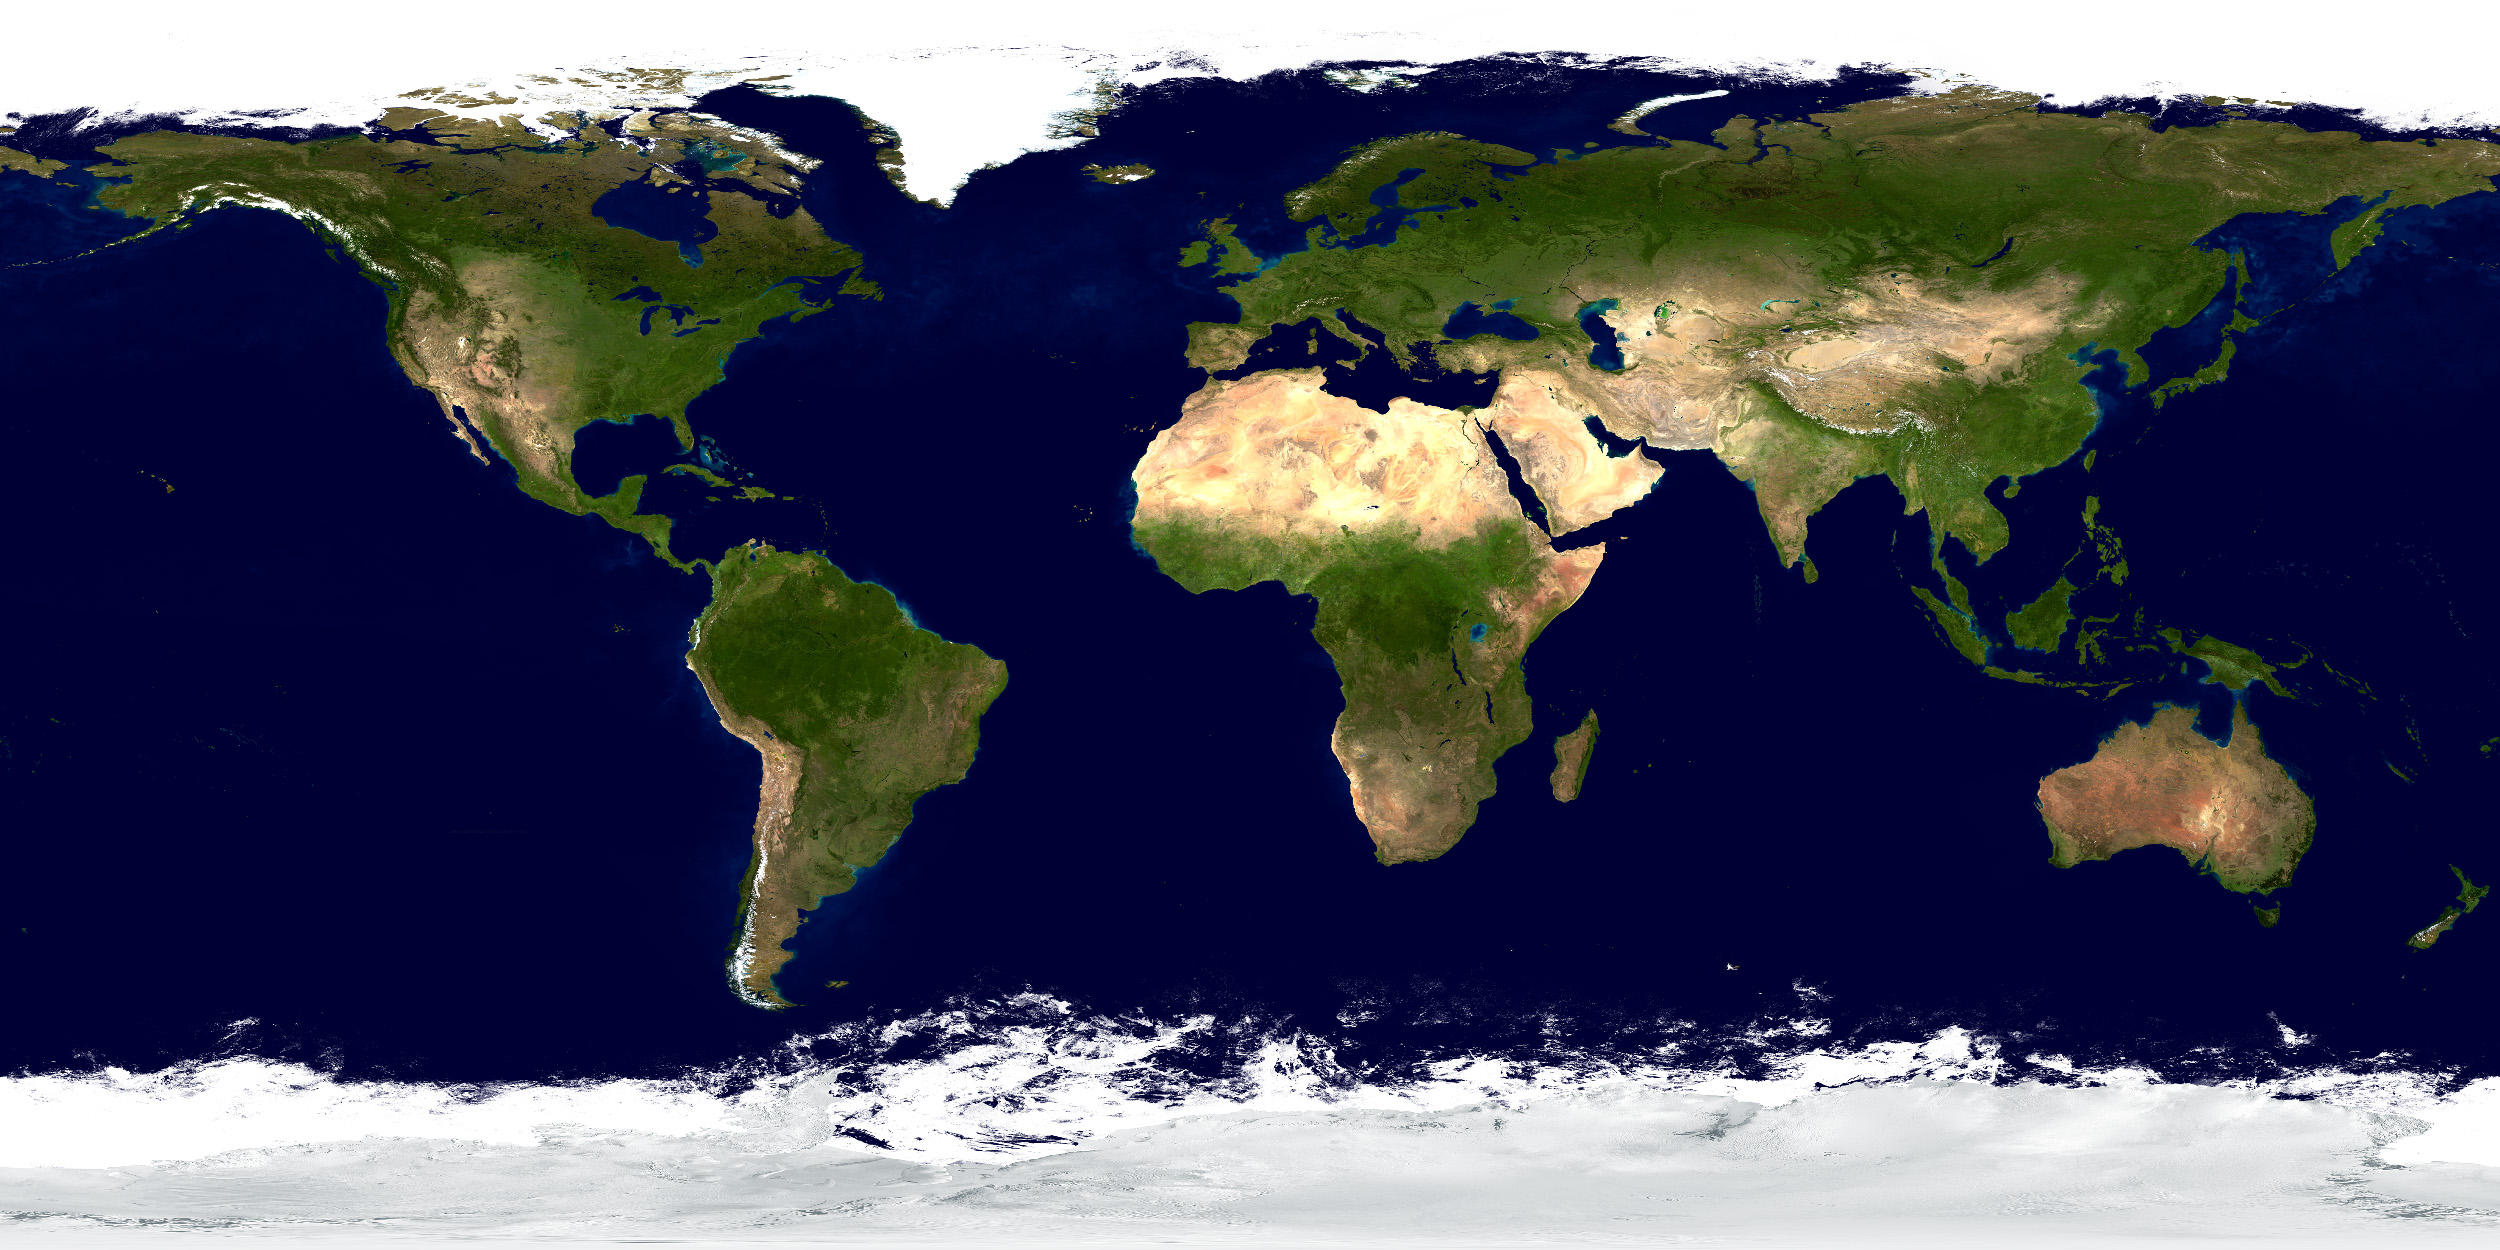
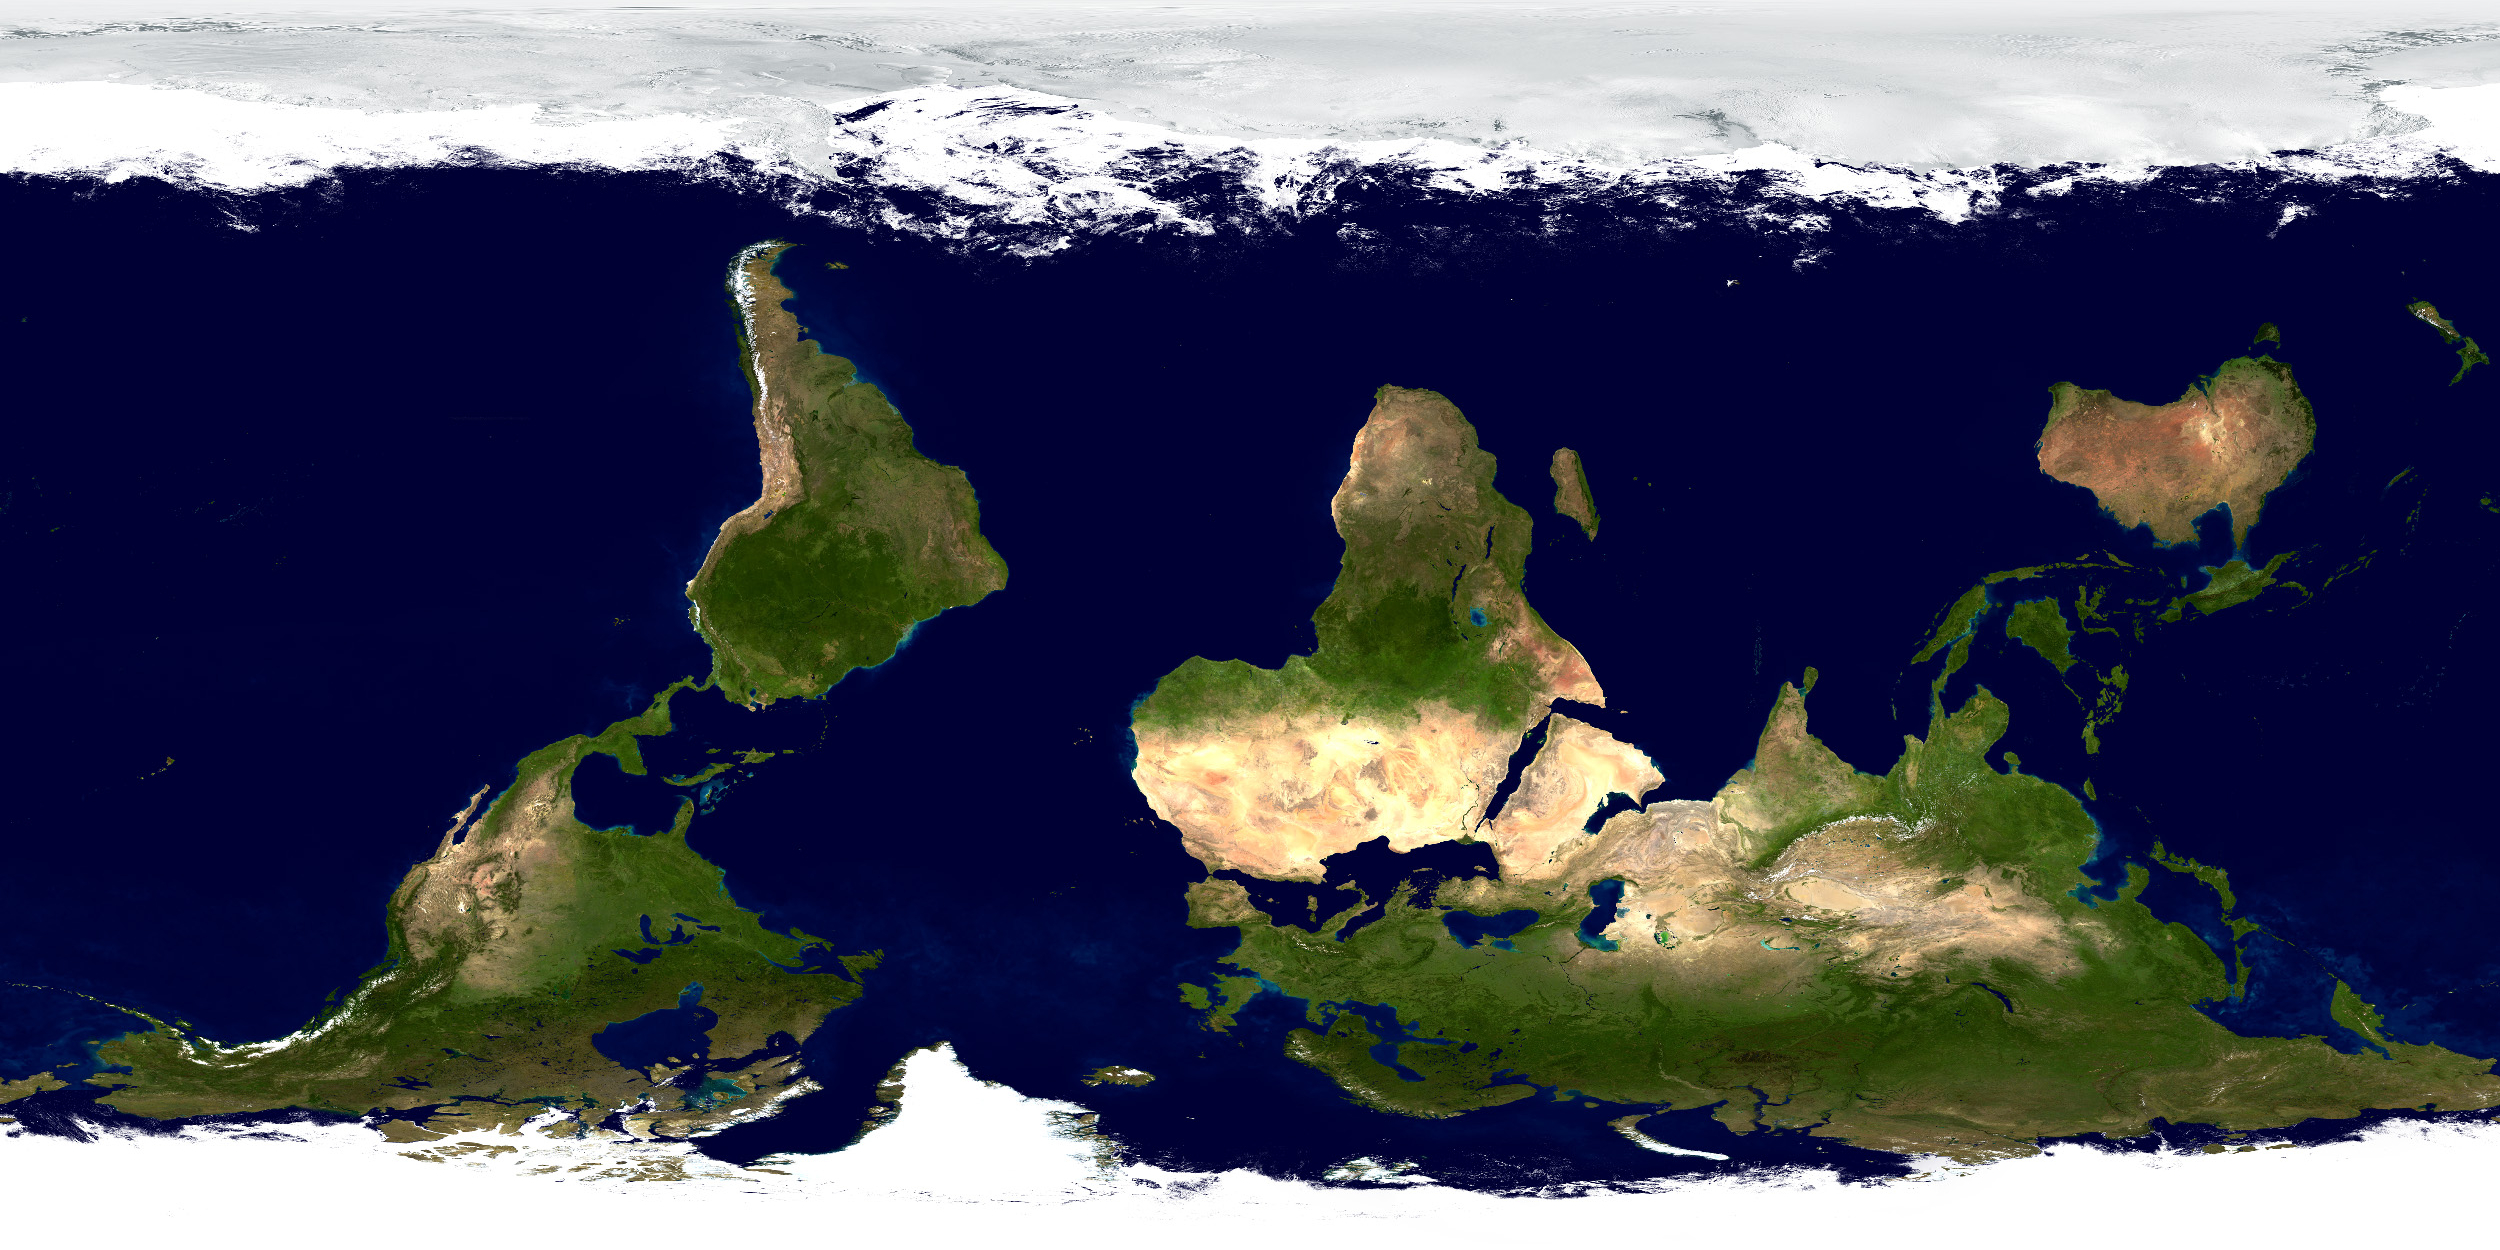
demonstration stuff

diff --git a/src/GLEngine.cpp b/src/GLEngine.cpp
@@ -1,10 +1,12 @@
 #include "GLEngine.h"
 #include "Util.h"
+#include "Texture.h"
+
 #include <stdio.h>
 #include <stdlib.h>
 #include <math.h>
 
-#define NUM_COLORS 3
+#define NUM_COLORS 5
 
 GLEngine::GLEngine(int argc, char** argv)
 {
@@ -14,8 +16,8 @@ GLEngine::GLEngine(int argc, char** argv)
 
 void GLEngine::initGL(int argc, char** argv)
 {
-    m_window = new sf::Window(sf::VideoMode::GetDesktopMode(), "GLEngine", sf::Style::Fullscreen);
-    //m_window = new sf::Window(sf::VideoMode(1300, 700), "GLEngine", sf::Style::Resize | sf::Style::Close); 
+    //m_window = new sf::Window(sf::VideoMode::GetDesktopMode(), "GLEngine", sf::Style::Fullscreen);
+    m_window = new sf::Window(sf::VideoMode(1300, 700), "GLEngine", sf::Style::Resize | sf::Style::Close); 
     m_screenWidth = m_window->GetWidth();
     m_screenHeight = m_window->GetHeight();
 	m_clock = new sf::Clock();
@@ -30,12 +32,13 @@ void GLEngine::initGL(int argc, char** argv)
     glEnable(GL_LIGHT0);
     
     m_fullScreen = false;
-	m_sphere = false;
-	m_godRays = false;
+	m_sphere = true;
+	m_godRays = true;
 	m_shaderIndex = 0;
-	m_wrapTex = false;
+	m_wrapTex = true;
 	m_planet = false;
-	m_equiWarp = false;
+	m_equiWarp = true;
+	m_warpingEarth = false;
 	m_updateRate = 1.0/60.0;
 	m_scale = 1.0;
 
@@ -45,15 +48,20 @@ void GLEngine::initGL(int argc, char** argv)
 	m_texWrappingShader = new Shader("shaders/wrap_texture.vert", "shaders/wrap_texture.frag");
 	m_equiWarpingShader = new Shader("shaders/equirectangular_warping.vert", "shaders/equirectangular_warping.frag");
 	
+	m_colorShaders.push_back(new Shader("shaders/warping.vert", "shaders/warping_chaotic_red.frag"));
 	m_colorShaders.push_back(new Shader("shaders/warping.vert", "shaders/warping_nebulous.frag"));
 	m_colorShaders.push_back(new Shader("shaders/warping.vert", "shaders/warping_2pass_gold.frag"));
-	m_colorShaders.push_back(new Shader("shaders/warping.vert", "shaders/warping_chaotic_red.frag"));
+	m_earthTexShader = new Shader("shaders/tex_warping.vert", "shaders/warping_image.frag");
+	m_colorShaders.push_back(m_earthTexShader);
+	m_colorShaders.push_back(new Shader("shaders/warping.vert", "shaders/simple_fbm.frag"));
 	m_currentColorShader = m_colorShaders[0];
 	
 	m_texFrameBuffer = new FrameBuffer(m_screenWidth, m_screenHeight);
 	m_gRayFrameBuffer = new FrameBuffer(m_screenWidth, m_screenHeight);
 	m_texWrappingFrameBuffer = new FrameBuffer(m_screenWidth, m_screenHeight);
 	m_equiWarpingFrameBuffer = new FrameBuffer(m_screenWidth, m_screenHeight);
+	
+	m_earthTex = Texture::loadTexture("resources/earth.jpg");
 	
 	m_mouseRotX = 0;
 	m_mouseRotY = 0;
@@ -119,6 +127,14 @@ int GLEngine::begin()
                         }
                         m_currentColorShader = m_colorShaders[m_shaderIndex];
                         break;
+                    case sf::Key::X:
+                        m_shaderIndex -= 1;
+                        if(m_shaderIndex < 0)
+                        {
+                            m_shaderIndex = NUM_COLORS-1;
+                        }
+                        m_currentColorShader = m_colorShaders[m_shaderIndex];
+                        break;
                     case sf::Key::W:
                         m_wrapTex = !m_wrapTex;
                         break;
@@ -127,6 +143,9 @@ int GLEngine::begin()
                         break;
                     case sf::Key::E:
                         m_equiWarp = !m_equiWarp;
+                        break;
+                    case sf::Key::Z:
+                        m_warpingEarth = !m_warpingEarth;
                         break;
                     default:
                         break;
@@ -156,6 +175,14 @@ void GLEngine::drawScene()
     m_currentColorShader->bind();
     m_currentColorShader->setUniform1f("screen", m_width);
     m_currentColorShader->setUniform1f("time", m_time);
+    
+    if(m_currentColorShader == m_earthTexShader)
+    {  
+        glActiveTexture(GL_TEXTURE0);
+        glBindTexture(GL_TEXTURE_2D, m_earthTex);
+        m_currentColorShader->setUniform1i("texture", 0);
+        m_currentColorShader->setUniform1i("warpingEarth", m_warpingEarth);
+    }
     
     glBegin(GL_POLYGON);
     glVertex3f(-m_width, -1, 0);
@@ -233,9 +260,11 @@ void GLEngine::drawScene()
 		gluQuadricTexture(sphere, GL_TRUE);
 		gluQuadricNormals(sphere, GLU_SMOOTH);
 		glColor3f(1.0, 1.0, 1.0);
+		
+		glPushMatrix();
+		glRotatef(-90, 1.0, 0.0, 0.0); 
  		gluSphere(sphere, 0.5, 50, 50);
- 		
- 		glEnable(GL_LIGHTING);
+ 		glPopMatrix();
  		
  		if(m_planet)
  		{
@@ -250,11 +279,7 @@ void GLEngine::drawScene()
  		}
  		
  		glPopMatrix();
-     		
  		m_gRayFrameBuffer->release();
- 		
- 		
-	    glDisable(GL_LIGHTING);
  		glBindTexture(GL_TEXTURE_2D, m_gRayFrameBuffer->texture());
  		
  		if(m_godRays) m_gRayShader->bind();
@@ -285,7 +310,6 @@ void GLEngine::drawScene()
 void GLEngine::update()
 {
 	float time = m_clock->GetElapsedTime();
-    m_clock->Reset();
     float rot_speed = 0.05;
     float time_speed = 0.01;
     	
@@ -298,11 +322,13 @@ void GLEngine::update()
         float multiplier = time / m_updateRate;
         m_mouseRotY += rot_speed * multiplier;
         m_time += time_speed * multiplier;
+        m_clock->Reset();
     }
     else
     {	
         m_mouseRotY += rot_speed;
         m_time += time_speed;
+        m_clock->Reset();
     }
 }
 

diff --git a/src/Texture.cpp b/src/Texture.cpp
@@ -1,9 +1,34 @@
 #include "Texture.h"
 #include <stdio.h>
+#include <stdlib.h>
 
-Texture::Texture(char* img)
+Texture::Texture()
 {
-    
+
 }
 
-
+GLuint Texture::loadTexture(const char* img_path)
+{
+    sf::Image* img = new sf::Image();
+    if(img->LoadFromFile(img_path))
+    {
+        GLuint texture;
+        glGenTextures(1, &texture);
+        glBindTexture(GL_TEXTURE_2D, texture);
+	    glTexParameterf(GL_TEXTURE_2D, GL_TEXTURE_WRAP_S, GL_CLAMP_TO_EDGE);
+	    glTexParameterf(GL_TEXTURE_2D, GL_TEXTURE_WRAP_T, GL_CLAMP_TO_EDGE);
+	    glTexParameterf(GL_TEXTURE_2D, GL_TEXTURE_MAG_FILTER, GL_NEAREST);
+	    glTexParameterf(GL_TEXTURE_2D, GL_TEXTURE_MIN_FILTER, GL_NEAREST);
+	    glTexImage2D(GL_TEXTURE_2D, 0, GL_RGBA, img->GetWidth(), img->GetHeight(), 0, GL_RGBA, GL_UNSIGNED_BYTE, img->GetPixelsPtr());
+	    glBindTexture(GL_TEXTURE_2D, 0);
+	    return texture;
+	    
+    }
+    else
+    {
+        printf("Failed to load texture: %s\n", img_path);
+        exit(1);
+    }
+    
+    return 0;
+}

diff --git a/src/GLEngine.h b/src/GLEngine.h
@@ -24,6 +24,7 @@ class GLEngine
 		Shader* m_texWrappingShader;
 		Shader* m_equiWarpingShader;
 		Shader* m_currentColorShader;
+		Shader* m_earthTexShader;
         std::vector<Shader*> m_colorShaders;
 		FrameBuffer* m_texFrameBuffer;
 		FrameBuffer* m_gRayFrameBuffer;
@@ -34,11 +35,13 @@ class GLEngine
 		bool m_fullScreen;
 		bool m_sphere;
 		bool m_godRays;
+		bool m_warpingEarth;
 		int m_shaderIndex;
 		bool m_wrapTex;
 		bool m_planet;
 		bool m_equiWarp;
 		GLuint m_texture;
+		GLuint m_earthTex;
 		int m_mouseLastX;
 		int m_mouseLastY;
         float m_mouseRotX;

diff --git a/src/Texture.h b/src/Texture.h
@@ -2,17 +2,14 @@
 #define TEXTURE_H
 
 #include <SFML/Graphics.hpp>
-#include <GL/gl.h>
 
 class Texture
 {
     public:
-        Texture(char* img_path);
-        GLuint handle() { return m_handle; }
+        static GLuint loadTexture(const char* img_path);
         
     private:
-        GLuint m_handle;
-        
+        Texture();
 };
 
 #endif
